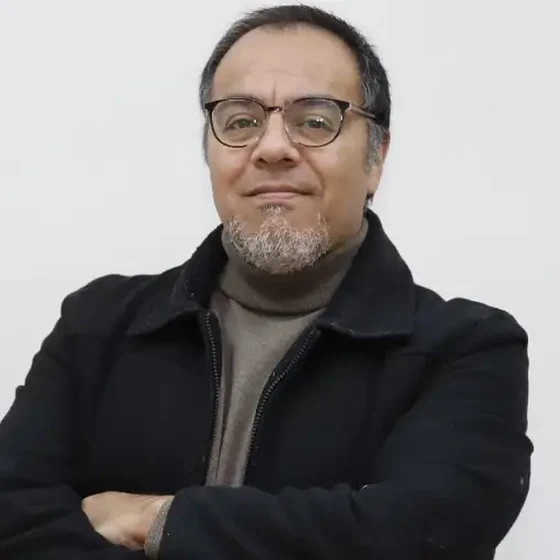
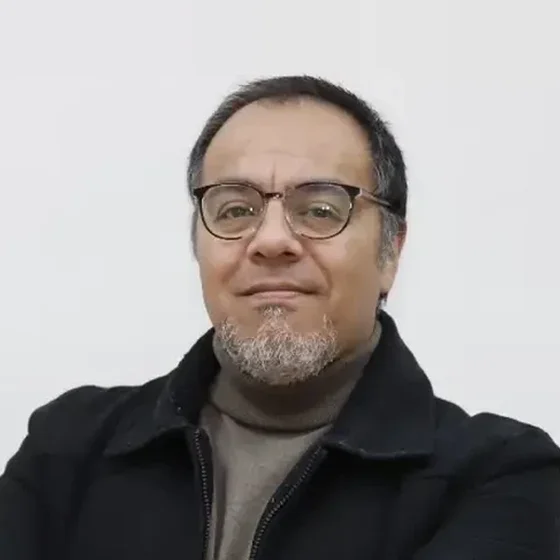
Siringo reencuadrado, marca CYTED y 'El seminario' más corto (#8)
* Siringo reencuadrado, marca CYTED 40 años, "El seminario" más corto

Retrato de Siringo 15 % más cerca y 20 % más abajo. Logo de CYTED en
el bloque de financiadores (marca conmemorativa, fondo negro intacto).
"El seminario" pasa de cuatro párrafos a tres y nombra FOVI250222 y
525RT0175 como los proyectos que lo financian; la razón del evento
sigue siendo borrador hasta que Mauricio la apruebe.

* Comentarios al día: logos ráster y respaldo de sigla en financiadores

Correcciones pedidas por la revisión del PR #8; solo prosa de comentarios.

---------

diff --git a/src/data/es.ts b/src/data/es.ts
@@ -114,10 +114,9 @@ export const es = {
   about: {
     lead: 'Encuentro internacional dedicado a la detección inalámbrica en bandas de ondas milimétricas y sub-terahertz, y a su papel en las redes de comunicación futuras.',
     paragraphs: [
-      'Las bandas mmWave y sub-THz abren la posibilidad de que una misma infraestructura inalámbrica no solo transmita información, sino que además perciba el entorno: detectar presencia y movimiento, estimar distancias, caracterizar materiales y reconstruir escenas. Esta convergencia entre comunicación y detección es uno de los ejes de las redes 6G.',
-      'El seminario reúne a investigadores de Estados Unidos y Chile para discutir modelos de propagación, mediciones experimentales, arquitecturas de sensado conjunto y los desafíos abiertos de llevar estas tecnologías a despliegues reales.',
-      'Existe para que quienes miden, modelan y diseñan las redes del futuro conversen en un mismo lugar, y para que los estudiantes de postgrado de Chile conozcan de primera mano el trabajo de investigadores de referencia internacional.',
-      'Lo dirige el Dr. Mauricio Rodríguez Guzmán, profesor de la Escuela de Ingeniería Eléctrica de la PUCV y director del Doctorado en Ingeniería Eléctrica. Doctor en Ingeniería Electrónica por la Universidad Técnica Federico Santa María, investiga telecomunicaciones inalámbricas, propagación electromagnética y diseño de sistemas de microondas, y dirige el Laboratorio de Comunicaciones Inalámbricas. Convocó a los expositores y encabeza la organización del encuentro.',
+      'Las bandas mmWave y sub-THz permiten que una misma infraestructura inalámbrica no solo transmita información, sino que perciba el entorno: detectar presencia y movimiento, estimar distancias y reconstruir escenas. Esa convergencia entre comunicación y detección es uno de los ejes de las redes 6G.',
+      'El seminario reúne a investigadores de Chile y del extranjero para discutir propagación, mediciones y sensado conjunto, y para acercar a los estudiantes de postgrado al trabajo de referentes internacionales. Se realiza en el marco de dos proyectos que lo financian: FOVI250222, de ANID, y 525RT0175, de CYTED.',
+      'Lo dirige el Dr. Mauricio Rodríguez Guzmán, profesor de la Escuela de Ingeniería Eléctrica de la PUCV y director del Doctorado en Ingeniería Eléctrica, quien convocó a los expositores. Investiga telecomunicaciones inalámbricas, propagación y microondas, y dirige el Laboratorio de Comunicaciones Inalámbricas.',
     ],
   },
 

diff --git a/src/data/comun.ts b/src/data/comun.ts
@@ -1,8 +1,8 @@
 /*
- * Los dos únicos logos ráster del proyecto se importan, no se referencian por ruta.
+ * Los logos ráster del proyecto se importan, no se referencian por ruta.
  *
- * PUCV no publica SVG de su escudo —el paquete `logos_pucv` de Normas Gráficas trae PNG—,
- * así que son los dos únicos archivos que el optimizador de Astro puede mejorar. Importarlos
+ * PUCV no publica SVG de su escudo —el paquete `logos_pucv` de Normas Gráficas trae PNG—, y
+ * la EIE y CYTED entregaron JPG/PNG: son los archivos que el optimizador de Astro puede mejorar. Importarlos
  * desde `src/assets` es lo que le permite emitir formatos modernos y declarar las
  * dimensiones intrínsecas. Los demás logos son SVG y siguen en `/public`, porque para
  * vectores el optimizador no hace nada y el flujo de sustituir el archivo por su nombre es
@@ -17,6 +17,7 @@ import pucvOscuro from '~/assets/logos/pucv-oscuro.png';
  * Procedencia y criterios en RF-10, enmienda del 2026-10-01.
  */
 import eieInstitucional from '~/assets/logos/eie-institucional.jpg';
+import cytedLogo from '~/assets/logos/cyted-40-anos.png';
 /*
  * ═══ COLUMBIA Y USACH VUELVEN, POR DECISIÓN DE LA ORGANIZACIÓN ═══
  *
@@ -617,9 +618,11 @@ export const comun = {
    * **Nada de esto se traduce**, por lo mismo que la mención de ANID: el nombre de una red
    * CYTED es su nombre oficial, en español, y traducirlo produciría una red que no existe.
    *
-   * `logo` es opcional y hoy **está vacío**: CYTED no publica un archivo utilizable —solo un
-   * JPEG sin transparencia y una marca conmemorativa de 40 años `[medido: 2026-09-25]`—.
-   * Cuando llegue el archivo bueno es una línea aquí.
+   * `logo` es opcional. Desde el 2026-10-01 lleva **la marca conmemorativa de 40 años**
+   * (PNG 300×298, fondo negro opaco), que Daniel entregó y pidió usar: CYTED no publica
+   * otro archivo utilizable `[medido: 2026-09-25]`. Es una marca de aniversario, no el
+   * logotipo permanente; cuando llegue el archivo institucional es cambiar esta línea.
+   * El fondo negro se conserva tal cual, como el JPG de la EIE: no se recolorea la marca.
    */
   financiadores: [
     {
@@ -627,6 +630,7 @@ export const comun = {
         name: 'Programa Iberoamericano de Ciencia y Tecnología para el Desarrollo',
         shortName: 'CYTED',
         url: 'https://www.cyted.org',
+        logo: cytedLogo,
       },
       project: {
         code: '525RT0175',

diff --git a/src/data/en.ts b/src/data/en.ts
@@ -100,10 +100,9 @@ export const en = {
   about: {
     lead: 'An international meeting on wireless sensing in millimetre-wave and sub-terahertz bands, and its role in future communication networks.',
     paragraphs: [
-      'The mmWave and sub-THz bands make it possible for a single wireless infrastructure not only to carry information but also to perceive its surroundings: detecting presence and motion, estimating range, characterising materials and reconstructing scenes. This convergence of communication and sensing is one of the pillars of 6G networks.',
-      'The seminar brings together researchers from the United States and Chile to discuss propagation models, experimental measurements, joint sensing architectures and the open challenges of taking these technologies to real deployments.',
-      'It exists so that those who measure, model and design the networks of the future can talk in one place, and so that postgraduate students in Chile can learn first-hand from internationally recognised researchers.',
-      'It is directed by Dr. Mauricio Rodríguez Guzmán, a professor at the PUCV School of Electrical Engineering and director of the PhD in Electrical Engineering. He holds a PhD in Electronics Engineering from Universidad Técnica Federico Santa María, researches wireless telecommunications, electromagnetic propagation and microwave systems design, and heads the Wireless Communications Laboratory. He invited the speakers and leads the organisation of the event.',
+      'The mmWave and sub-THz bands let a single wireless infrastructure not only carry information but also perceive its surroundings: detecting presence and motion, estimating range and reconstructing scenes. This convergence of communication and sensing is one of the pillars of 6G networks.',
+      'The seminar brings together researchers from Chile and abroad to discuss propagation, measurements and joint sensing, and to bring postgraduate students closer to internationally recognised work. It is held within two projects that fund it: FOVI250222, from ANID, and 525RT0175, from CYTED.',
+      'It is directed by Dr. Mauricio Rodríguez Guzmán, a professor at the PUCV School of Electrical Engineering and director of the PhD in Electrical Engineering, who invited the speakers. He researches wireless telecommunications, propagation and microwaves, and heads the Wireless Communications Laboratory.',
     ],
   },
 

diff --git a/specs/001-mejora-calidad/verification.md b/specs/001-mejora-calidad/verification.md
@@ -2,7 +2,7 @@
 
 Generado por `npm run verify`. **No editar a mano**: se sobrescribe en cada corrida.
 
-**Fecha:** 2026-10-02 · **Commit:** `e20bef6`
+**Fecha:** 2026-10-02 · **Commit:** `261f5de`
 **Resultado:** todos los presupuestos cumplidos
 
 Método: axe-core sobre el build servido localmente, en 1440×900 y 390×844,
@@ -25,7 +25,7 @@ de ese orden respecto de la línea base no indica un cambio real.
 | RNF-1.4 | Secciones sin nombre accesible | 7 | 0 | 0 | cumple |
 | RNF-1.5 | Saltos de nivel en encabezados | 0 | 0 | 0 | cumple |
 | RNF-2.1 | JavaScript comprimido | 109.3 kB | 4.5 kB | 115.0 kB | cumple |
-| RNF-2.2 | Primera carga comprimida | 241.2 kB | 173.1 kB | 260.0 kB | cumple |
+| RNF-2.2 | Primera carga comprimida | 241.2 kB | 172.9 kB | 260.0 kB | cumple |
 | RNF-2.6 | Tipografías | 110.9 kB | 122.6 kB | 125.0 kB | cumple |
 
 En RNF-1.1 y RNF-1.3 la columna «Actual» **suma todas las corridas**, mientras que
@@ -40,19 +40,19 @@ el desglose por corrida más abajo.
 | JavaScript en línea, dentro del HTML | 4.5 kB |
 | JavaScript total (RNF-2.1) | 4.5 kB |
 | Tipografías | 122.6 kB |
-| HTML (incluye los scripts en línea) | 38.4 kB |
+| HTML (incluye los scripts en línea) | 38.3 kB |
 | CSS en hojas enlazadas | 12.1 kB |
 | Imágenes SVG | 79.6 kB |
-| **Primera carga** | **173.1 kB** |
+| **Primera carga** | **172.9 kB** |
 
-Medido sobre `/en/`, la **más pesada** de las auditadas, que es contra la que se juzga el presupuesto.
+Medido sobre `/`, la **más pesada** de las auditadas, que es contra la que se juzga el presupuesto.
 
 Primera carga por página:
 
 | Página | Primera carga |
 | ------ | ------------- |
-| `/en/` | 173.1 kB |
-| `/` | 173.1 kB |
+| `/en/` | 172.9 kB |
+| `/` | 172.9 kB |
 
 Solo se cuenta lo que la página referencia. Archivos generados que **ningún archivo
 de `dist` menciona**, y que por tanto ningún navegador descarga:
